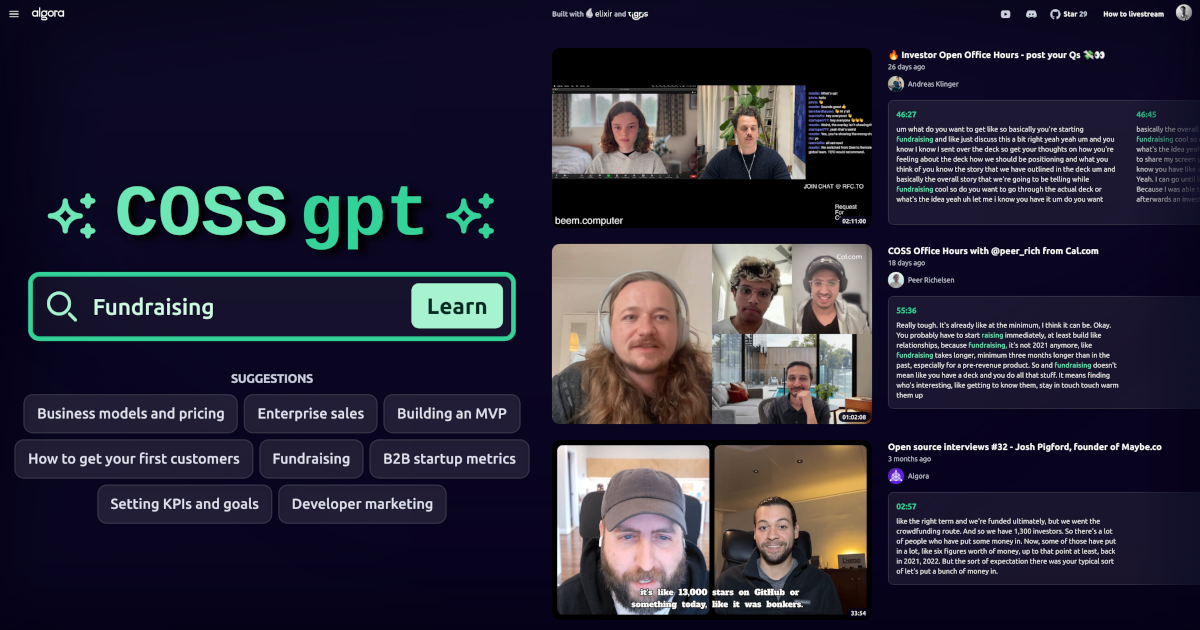
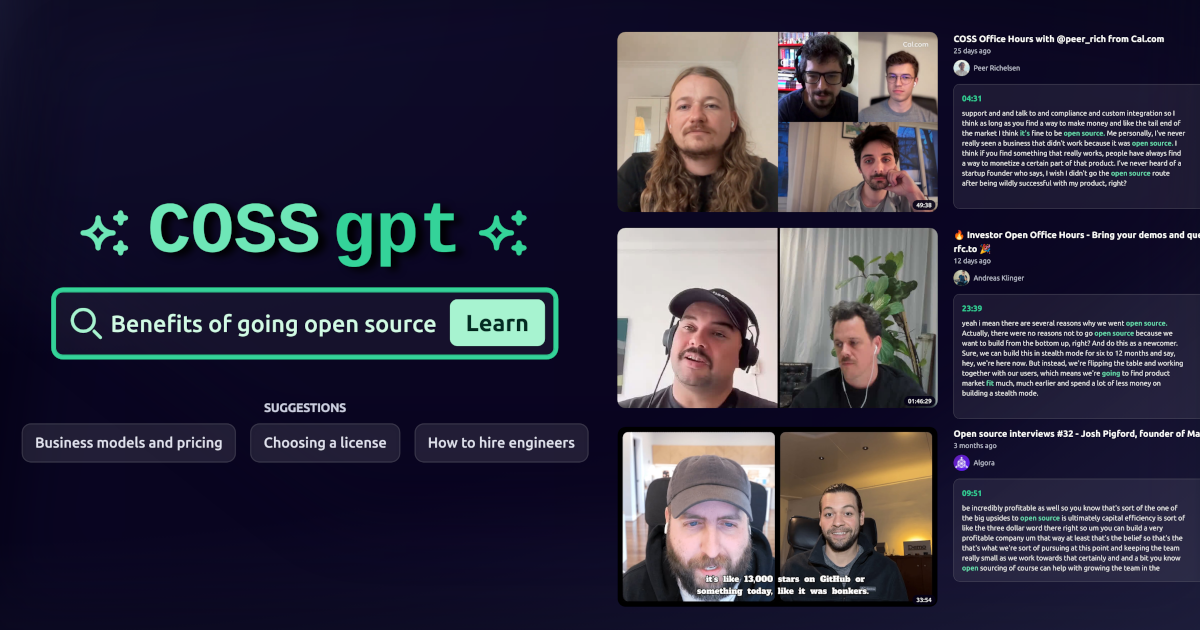
update og image

diff --git a/assets/css/app.css b/assets/css/app.css
@@ -16,7 +16,7 @@
     @apply border-gray-800;
   }
   body {
-    @apply bg-gray-950 text-white;
+    @apply bg-[radial-gradient(ellipse_at_top_left,_#1d1e3a_0%,_#050217_40%,_#050217_60%,_#1d1e3a_100%)] text-white;
   }
 }
 
